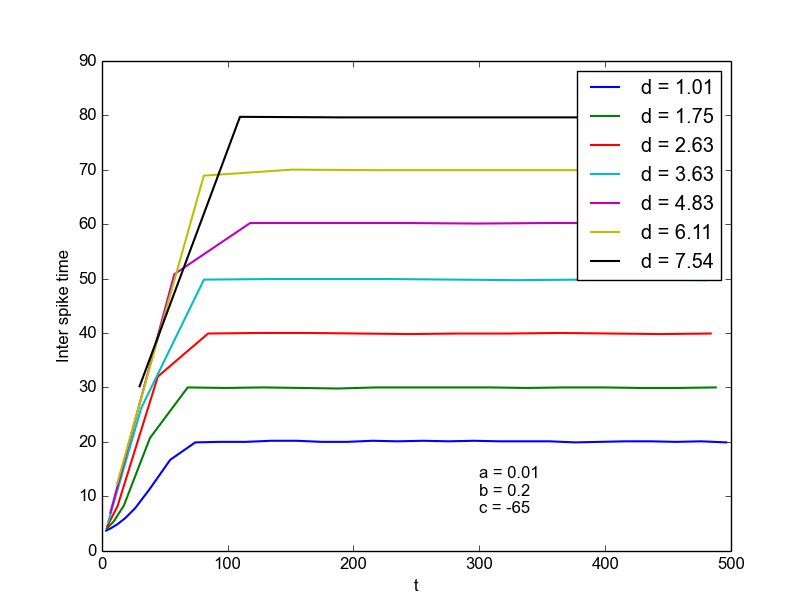
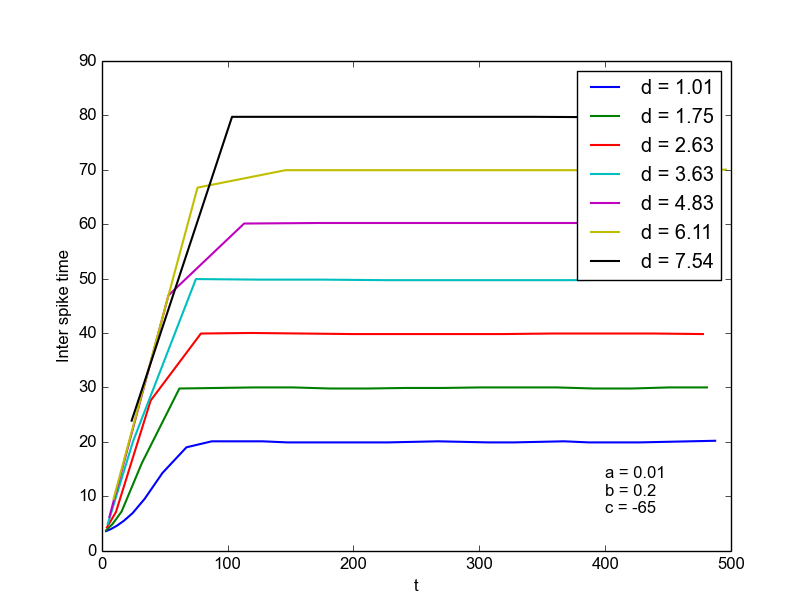
Replace graph by graph that starts from resting rather than initalisation

diff --git a/src/izhikevich/spikingnetwork/Main.java b/src/izhikevich/spikingnetwork/Main.java
@@ -92,6 +92,10 @@ public class Main {
 			String varName = "y"+dValue.replace(",", "");
 			Neuron n = new Neuron(a, b, c, d);
 			System.out.print(varName + "= np.array([");
+			System.out.println("\n\n"+n.v);
+			for (int i=0; i<500; i++) n.update();
+			System.out.println(n.v+"\n\n");
+			n.t = 0.0;
 			for (int i=0; i<simLength; i++) {
 				n.update(I);
 				if (n.fired) {
@@ -110,7 +114,7 @@ public class Main {
 		System.out.println("plt.ylabel(\"Inter spike time\")");
 		System.out.println("plt.xlabel(\"t\")");
 		System.out.println("\"Development of spikeperiod with number of spikes\"");
-		System.out.println("plt.text(300, 7, \"a = 0.01\\nb = 0.2\\nc = -65\")");
+		System.out.println("plt.text(400, 7, \"a = 0.01\\nb = 0.2\\nc = -65\")");
 		System.out.println("plt.axis([0, 500, 0, 90])");
 		System.out.println("plt.show()");
 	}
